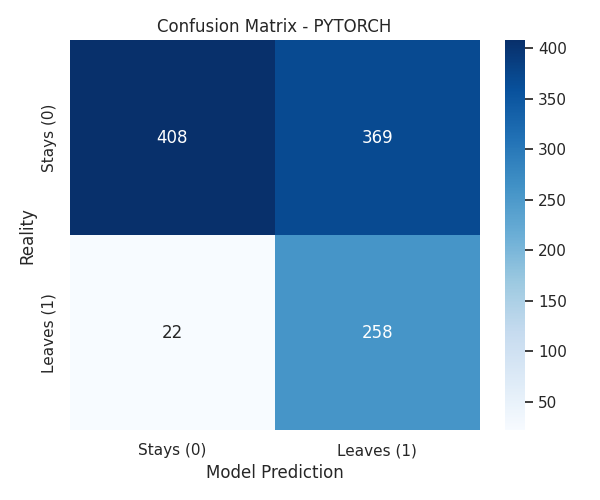
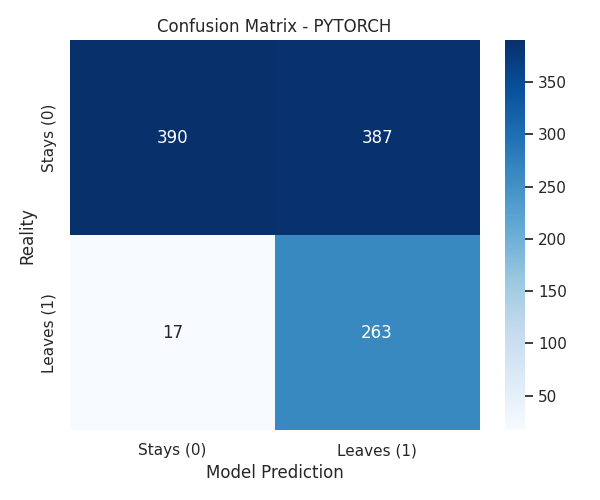
refactored main for printing, trainers for export and validation set results

diff --git a/src/main.py b/src/main.py
@@ -1,11 +1,17 @@
+import os
+import json
+import torch
+from torchinfo import summary
+
 from src.dataset import get_dataloaders
 from src.models.neural_net import ChurnNeuralNet
 from src.models.xgboost_model import get_xgboost_model
 from src.core.trainer_pytorch import train_pytorch, evaluate_pytorch
-from src.core.trainer_xgboost import train_and_eval_xgboost, train_and_eval_xgboost_with_feature_selection
+from src.core.trainer_xgboost import train_and_eval_xgboost_with_feature_selection
 from src.config import DEVICE, BATCH_SIZE, EPOCHS, LEARNING_RATE, XGBOOST_DROP_PERCENT
-from torchinfo import summary
-import torch, os
+
+from src.utils.plotting import print_metrics_table
+
 
 def main():
     print("=========================================")
@@ -16,53 +22,50 @@ def main():
         train_loader, val_loader, test_loader, xgb_data, input_dim = get_dataloaders()
 
         nn_model = ChurnNeuralNet(input_dim).to(DEVICE)
-        xgb_model = get_xgboost_model()
+        xgb_model_raw = get_xgboost_model()
 
-        # PYTORCH TRAINING - with added weight 2.76 for the Churn class
+        # --- PYTORCH ---
         nn_model = train_pytorch(
             nn_model, train_loader, val_loader, DEVICE,
             EPOCHS, LEARNING_RATE, pos_weight_val=2.76
         )
+        
+        # evaluate on validation set without saving plots
+        nn_val_results = evaluate_pytorch(nn_model, val_loader, DEVICE, threshold=0.4, save_plots=False)
+        # evaluate on test set with saving plots
+        nn_test_results = evaluate_pytorch(nn_model, test_loader, DEVICE, threshold=0.4, save_plots=True)
 
-        # PYTORCH EVALUATION - with lowered threshold to 0.4 (better recall for imbalanced data)
-        nn_results = evaluate_pytorch(nn_model, test_loader, DEVICE, threshold=0.4)
 
-        # XGBOOST TRAINING AND EVALUATION
-        #xgb_results = train_and_eval_xgboost(xgb_model, xgb_data)
-
-        # XGBOOST RE-TRAINING WITH FEATURE DROPPING
-        xgb_results = train_and_eval_xgboost_with_feature_selection(
-            xgb_model, xgb_data,
+        # --- XGBOOST ---
+        #  get the filtered model and results for the test and validation sets
+        xgb_model_filtered, xgb_val_results, xgb_test_results = train_and_eval_xgboost_with_feature_selection(
+            xgb_model_raw, xgb_data,
             drop_percent=XGBOOST_DROP_PERCENT,
         )
 
         print(f"\nAfter training (PyTorch):\n")
         summary(nn_model, input_size=(BATCH_SIZE, input_dim))
 
-        # ==========================================
-        # Results summary
-        # ==========================================
-        print("\n" + "="*55)
-        print(" Final results (test set)")
-        print("="*55)
-        print(f"{'Metric':<15} | {'PyTorch (NN)':<15} | {'XGBoost':<15}")
-        print("-" * 55)
 
-        # Added ROC-AUC to the list of metrics
-        for metric in["Accuracy", "F1-Score", "Recall", "ROC-AUC"]:
-            nn_val = f"{nn_results[metric]:.4f}"
-            xgb_val = f"{xgb_results[metric]:.4f}"
-            print(f"{metric:<15} | {nn_val:<15} | {xgb_val:<15}")
+        # --- print results ---
+        print_metrics_table("RESULTS: VALIDATION SET", nn_val_results, xgb_val_results)
+        print_metrics_table("RESULTS: TEST SET", nn_test_results, xgb_test_results)
 
-        print("="*55)
 
-        # save both models for milestone 5: .pt for the neural network and .json for the XGBoost model
-
+        # --- export the models ---
         export_dir = "exported-models"
-        os.makedirs(export_dir, exist_ok=True) # create folder if empty
+        os.makedirs(export_dir, exist_ok=True) 
 
+        # torch.save(...) for the neural network model
         torch.save(nn_model.state_dict(), os.path.join(export_dir, "nn_model.pt"))
-        xgb_model.save_model(os.path.join(export_dir, "xgb_model.json"))
+        
+        # model.save_model(...) for the xgboost .json model
+        xgb_model_filtered.save_model(os.path.join(export_dir, "xgb_model.json"))
+        
+        # get the columns for xgboost to interpret correctly
+        with open(os.path.join(export_dir, "xgb_columns.json"), "w") as f:
+            json.dump(xgb_test_results["top_features"], f)
+            
         print(f"\n[Success] Models exported to directory: '{export_dir}/'")
 
     except FileNotFoundError:

diff --git a/src/core/trainer_xgboost.py b/src/core/trainer_xgboost.py
@@ -121,34 +121,31 @@ def train_and_eval_xgboost_with_feature_selection(
 
     print("XGBoost re-training finished!")
 
-    # Evaluate
-    preds = xgb_model_filtered.predict(X_test_filtered)
-    probs = xgb_model_filtered.predict_proba(X_test_filtered)[:, 1]
+    # evaluate on validation set
+    val_preds = xgb_model_filtered.predict(X_val_filtered)
+    val_probs = xgb_model_filtered.predict_proba(X_val_filtered)[:, 1]
+    val_results = {
+        "Accuracy": accuracy_score(xgb_data["y_val"], val_preds),
+        "F1-Score": f1_score(xgb_data["y_val"], val_preds),
+        "Recall": recall_score(xgb_data["y_val"], val_preds),
+        "ROC-AUC": roc_auc_score(xgb_data["y_val"], val_probs),
+    }
 
-    # Generate plots
-    plot_confusion_matrix(xgb_data["y_test"], preds, model_name="xgboost_filtered")
-    plot_roc_curve(xgb_data["y_test"], probs, model_name="xgboost_filtered")
+    # evaluate on test set
+    test_preds = xgb_model_filtered.predict(X_test_filtered)
+    test_probs = xgb_model_filtered.predict_proba(X_test_filtered)[:, 1]
+    test_results = {
+        "Accuracy": accuracy_score(xgb_data["y_test"], test_preds),
+        "F1-Score": f1_score(xgb_data["y_test"], test_preds),
+        "Recall": recall_score(xgb_data["y_test"], test_preds),
+        "ROC-AUC": roc_auc_score(xgb_data["y_test"], test_probs),
+        "top_features": top_features # we need to do this for the model export
+    }
+
+    # plots for the test set
+    plot_confusion_matrix(xgb_data["y_test"], test_preds, model_name="xgboost_filtered")
+    plot_roc_curve(xgb_data["y_test"], test_probs, model_name="xgboost_filtered")
     plot_xgboost_importance(xgb_model_filtered, model_name="xgboost_filtered")
 
-    # Compare with original (optional)
-    original_preds = xgb_model.predict(X_test_df)
-    original_probs = xgb_model.predict_proba(X_test_df)[:, 1]
-
-    results = {
-        "Accuracy": accuracy_score(xgb_data["y_test"], preds),
-        "F1-Score": f1_score(xgb_data["y_test"], preds),
-        "Recall": recall_score(xgb_data["y_test"], preds),
-        "ROC-AUC": roc_auc_score(xgb_data["y_test"], probs),
-        "original_accuracy": accuracy_score(xgb_data["y_test"], original_preds),
-        "features_used": n_keep,
-        "features_dropped": len(dropped_features),
-        "top_features": top_features,
-    }
-    if verbose:
-        print("\nPerformance Comparison:")
-        print(f"   Original Accuracy: {results['original_accuracy']:.4f}")
-        print(f"   Filtered Accuracy: {results['Accuracy']:.4f}")
-        improvement = results["Accuracy"] - results["original_accuracy"]
-        print(f"   {'Improvement' if improvement > 0 else 'Slight decrease'}: {improvement:+.4f}")
-
-    return results
+    # return all results
+    return xgb_model_filtered, val_results, test_results

diff --git a/src/core/trainer_pytorch.py b/src/core/trainer_pytorch.py
@@ -45,25 +45,26 @@ def train_pytorch(
     return model
 
 
-def evaluate_pytorch(model, test_loader, device, threshold=0.5):
+def evaluate_pytorch(model, data_loader, device, threshold=0.5, save_plots=True):
     model.eval()
-    y_true, y_pred, y_probs = [], [], []
+    y_true, y_pred, y_probs = [], [],[]
 
     with torch.no_grad():
-        for X_batch, y_batch in test_loader:
+        for X_batch, y_batch in data_loader:
             X_batch = X_batch.to(device)
             outputs = model(X_batch)
 
             probs = torch.sigmoid(outputs)
-            preds = (probs > threshold).float()  # Dynamic classification threshold
+            preds = (probs > threshold).float()
 
             y_true.extend(y_batch.numpy())
             y_pred.extend(preds.cpu().numpy())
             y_probs.extend(probs.cpu().numpy())
 
-    # Generate plots using our new module
-    plot_confusion_matrix(y_true, y_pred, model_name="pytorch")
-    plot_roc_curve(y_true, y_probs, model_name="pytorch")
+    # check if we want to save plots - based on function flag, defaults to true
+    if save_plots:
+        plot_confusion_matrix(y_true, y_pred, model_name="pytorch")
+        plot_roc_curve(y_true, y_probs, model_name="pytorch")
 
     return {
         "Accuracy": accuracy_score(y_true, y_pred),

diff --git a/src/utils/plotting.py b/src/utils/plotting.py
@@ -59,3 +59,16 @@ def plot_xgboost_importance(xgb_model, model_name="xgboost"):
     save_path = os.path.join(get_plots_dir(), "{model_name}_feature_importance.png")
     plt.savefig(save_path)
     plt.close()
+
+def print_metrics_table(title, nn_res, xgb_res):
+    """Function to print metrics for both models"""
+    print("\n" + "="*55)
+    print(f" {title}")
+    print("="*55)
+    print(f"{'Metric':<15} | {'PyTorch (NN)':<15} | {'XGBoost':<15}")
+    print("-" * 55)
+    for metric in["Accuracy", "F1-Score", "Recall", "ROC-AUC"]:
+        nn_val = f"{nn_res[metric]:.4f}"
+        xgb_val = f"{xgb_res[metric]:.4f}"
+        print(f"{metric:<15} | {nn_val:<15} | {xgb_val:<15}")
+    print("="*55)